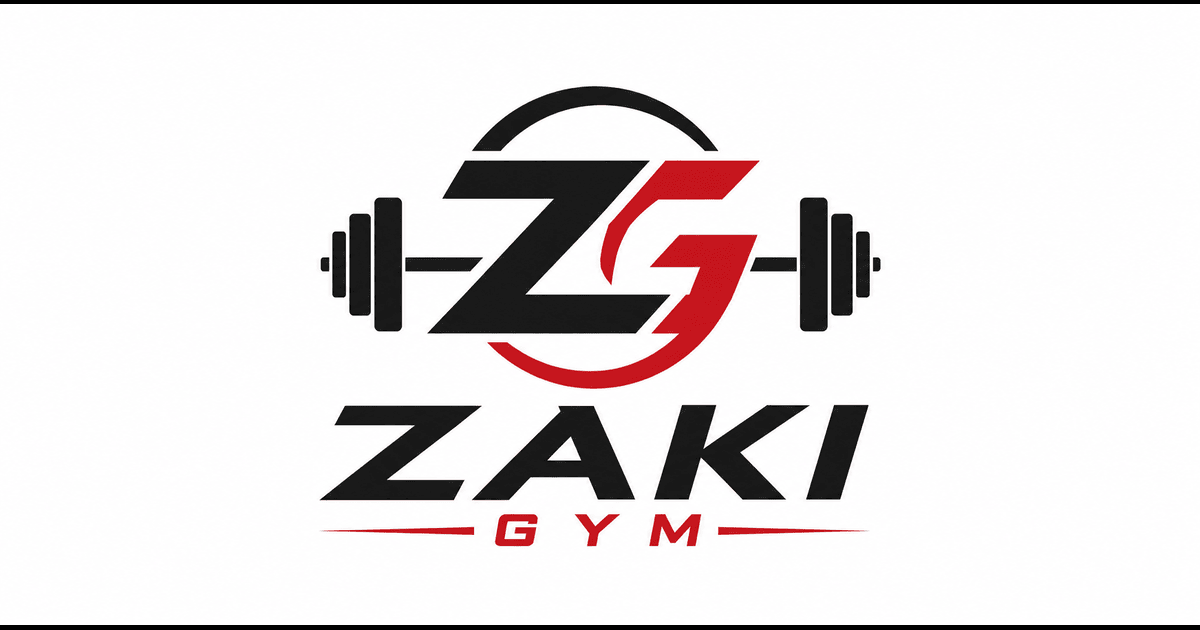
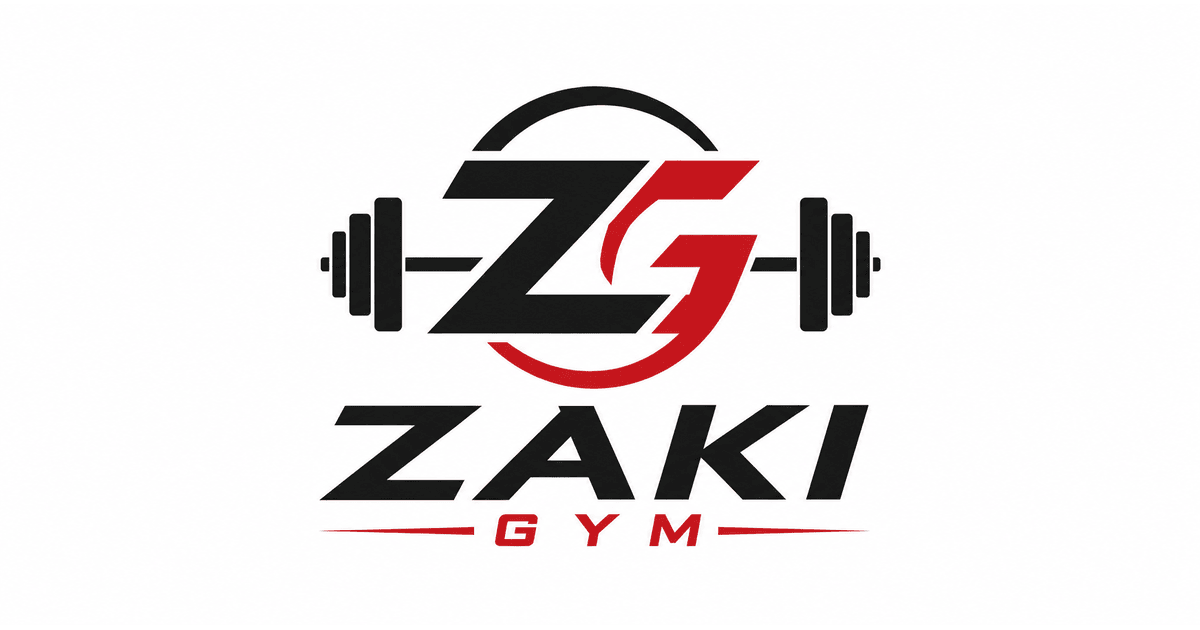
basic production

Changed region(s): [[0.0, 0.9651, 1.0, 1.0], [0.0, 0.0, 1.0, 0.0302]]

diff --git a/components/contact-us.tsx b/components/contact-us.tsx
@@ -43,23 +43,6 @@ const Contact = () => (
                         [phone redacted]
                     </Link>
                 </div>
-                <div data-aos={"fade-left"} className="border border-dashed  p-6 pb-8 bg-white">
-                    <div className="flex mx-auto  h-12 w-12 items-center justify-center rounded-full bg-foreground/5 text-foreground dark:bg-muted">
-                        <MapPinIcon />
-                    </div>
-                    <h3 className="mt-8 font-medium text-xl">Location</h3>
-                    <p className="mt-1.5 mb-4 text-muted-foreground">
-                        Come say hello at our Gym.
-                    </p>
-                    <Link
-                        className="font-medium"
-                        href="https://map.google.com"
-                        target="_blank"
-                    >
-                        Kashmir Road, Street 2, City Care Street <br />
-                        Khanewal, Pakistan
-                    </Link>
-                </div>
                 <div data-aos={"fade-left"} className="border border-dashed p-6 pb-8 bg-white">
                     <div className="flex mx-auto  h-12 w-12 items-center justify-center rounded-full bg-foreground/5 text-foreground dark:bg-muted">
                         <PhoneIcon />
@@ -70,6 +53,43 @@ const Contact = () => (
                     </p>
                     <Link className="font-medium" href="tel:[phone redacted]">
                         [phone redacted]
+                    </Link>
+                </div>
+                <div
+                    data-aos="fade-left"
+                    className=" lg:col-span-3 border border-dashed p-6 pb-8 bg-white"
+                >
+                    <div className="flex mx-auto h-12 w-12 items-center justify-center rounded-full bg-foreground/5 text-foreground dark:bg-muted">
+                        <MapPinIcon />
+                    </div>
+
+                    <h3 className="mt-8 font-medium text-xl">Our Location</h3>
+
+                    <p className="mt-1.5 mb-4 text-muted-foreground">
+                        Kashmir Road, Street 2, City Care Street <br />
+                        Khanewal, Pakistan
+                    </p>
+
+                    <div className="overflow-hidden rounded-lg border">
+                        <iframe
+                            src="https://maps.google.com/maps?q=30.2985933,71.9347534&z=17&output=embed"
+                            width="100%"
+                            height="250"
+                            style={{ border: 0 }}
+                            allowFullScreen
+                            loading="lazy"
+                            referrerPolicy="no-referrer-when-downgrade"
+                            title="Zaki Gym Location"
+                        />
+                    </div>
+
+                    <Link
+                        href="https://www.google.com/maps?q=30.2985933,71.9347534&z=17"
+                        target="_blank"
+                        rel="noopener noreferrer"
+                        className="mt-4 inline-block font-medium"
+                    >
+                        Open in Google Maps
                     </Link>
                 </div>
             </div>

diff --git a/app/sitemap.ts b/app/sitemap.ts
@@ -1,0 +1,35 @@
+// app/sitemap.ts
+import { MetadataRoute } from 'next'
+
+export const dynamic = "force-static"
+
+export default async function sitemap(): Promise<MetadataRoute.Sitemap> {
+  const baseUrl = 'https://zakigym.pages.dev' 
+
+  return [
+    {
+      url: `${baseUrl}`,
+      lastModified: new Date(),
+      changeFrequency: 'monthly',
+      priority: 1.0,
+    },
+    {
+      url: `${baseUrl}/about-us`,
+      lastModified: new Date(),
+      changeFrequency: 'monthly',
+      priority: 0.8,
+    },
+    {
+      url: `${baseUrl}/contact-us`,
+      lastModified: new Date(),
+      changeFrequency: 'monthly',
+      priority: 0.8,
+    },
+    {
+      url: `${baseUrl}/privacy-policy`,
+      lastModified: new Date(),
+      changeFrequency: 'monthly',
+      priority: 0.5,
+    },
+  ]
+}

diff --git a/app/layout.tsx b/app/layout.tsx
@@ -21,16 +21,17 @@ const geistMono = Geist_Mono({
 
 
 export const metadata: Metadata = {
-  title: "Zaki Gym – Best Unisex Fitness Center for Men & Women in Khanewal",
+  title: "Zaki Gym Khanewal | Best Unisex Fitness Center for Men & Women",
   description:
-    "Zaki Gym in Khanewal offers a safe and modern fitness space for both men and women. With separate areas, expert trainers, and affordable plans",
-    
+    "Looking for the best gym in Khanewal? Zaki Gym offers separate facilities for men and women, expert fitness trainers, modern cardio and strength equipment, weight loss programs, and affordable membership packages. Start your fitness journey today.",
+
   metadataBase: new URL("https://zakigym.pages.dev"),
 
   openGraph: {
-    title: "Zaki Gym – Best Unisex Fitness Center in Khanewal",
+    title: "Zaki Gym Khanewal | Best Unisex Fitness Center for Men & Women",
     description:
-      "Join Zaki Gym in Khanewal for expert training, modern equipment, and separate workout areas for men & women. Start your fitness journey today!",
+      "Looking for the best gym in Khanewal? Zaki Gym offers separate facilities for men and women, expert fitness trainers, modern cardio and strength equipment, weight loss programs, and affordable membership packages. Start your fitness journey today.",
+
     url: "/",
     siteName: "Zaki Gym",
     images: [
@@ -47,9 +48,10 @@ export const metadata: Metadata = {
 
   twitter: {
     card: "summary_large_image",
-    title: "Zaki Gym – Best Fitness Center in Khanewal",
+    title: "Zaki Gym Khanewal | Best Unisex Fitness Center for Men & Women",
     description:
-      "Modern gym with expert trainers, separate areas for men & women, and affordable plans.",
+      "Looking for the best gym in Khanewal? Zaki Gym offers separate facilities for men and women, expert fitness trainers, modern cardio and strength equipment, weight loss programs, and affordable membership packages. Start your fitness journey today.",
+
     images: ["/og-default.png"],
   },
 };

diff --git a/app/privacy-policy/page.tsx b/app/privacy-policy/page.tsx
@@ -1,4 +1,12 @@
 import React from 'react'
+import type { Metadata } from "next";
+
+export const metadata: Metadata = {
+  title: "Privacy Policy | Zaki Gym Khanewal",
+  description:
+    "Read the Privacy Policy of Zaki Gym Khanewal to learn how we collect, use, store, and protect your personal information when you visit our website or use our fitness services.",
+};
+
 
 export interface LegalPolicy2Props {
     title?: string

diff --git a/app/about-us/page.tsx b/app/about-us/page.tsx
@@ -1,4 +1,11 @@
 import AboutUs from '@/components/about-us'
+import type { Metadata } from "next";
+
+export const metadata: Metadata = {
+  title: "About Zaki Gym Khanewal | Your Trusted Fitness Partner",
+  description:
+    "Learn more about Zaki Gym Khanewal, a leading unisex fitness center dedicated to helping men and women achieve their health and fitness goals. Discover our mission, experienced trainers, modern facilities, and commitment to creating a supportive fitness community.",
+};
 
 const Page = () => {
     return (

diff --git a/app/contact-us/page.tsx b/app/contact-us/page.tsx
@@ -1,4 +1,11 @@
 import Contact from "@/components/contact-us";
+import type { Metadata } from "next";
+
+export const metadata: Metadata = {
+  title: "Contact Zaki Gym Khanewal | Get in Touch With Our Fitness Team",
+  description:
+    "Contact Zaki Gym Khanewal for membership details, fitness programs, personal training, and gym timings. Reach out to our team and start your fitness journey with the leading unisex fitness center in Khanewal.",
+};
 
 const Page = () => (
     <Contact />